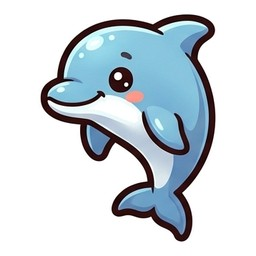
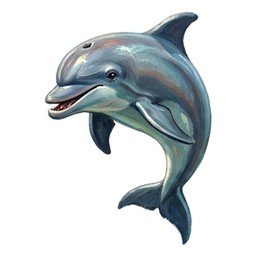
Oil-painting tokens: the same eight animals, painted

diff --git a/BOARD-ART.md b/BOARD-ART.md
@@ -28,13 +28,15 @@ and the centre is cropped square from the middle. **It overwrites** those 26 fil
 and the Fortune card are separate files that it doesn't touch. Higher-resolution sources give
 sharper squares (each square should ideally be at least 300 px in the source).
 
-### Player tokens from a 2×2 character sheet
+### Player tokens
 
 Players choose their token (an animal) before the game starts. The eight icons are
 `tokens/icon-1-shark.jpg` … `icon-8-meerkat.jpg` (names and order in `TOKEN_ICONS`,
 game/board.ts), each a 256×256 square on white, shown cropped to a circle with the player's
 colour ring. To replace them, cut a new sheet into the same eight files (square, the figure
-centred with a little margin). (`npm run art:tokens` is the older 4-token slicer.)
+centred with a little margin). The current set is cut from an oil-painting sheet of the eight
+animals on white (two rows of four, in `TOKEN_ICONS` order). (`npm run art:tokens` is the older
+4-token slicer.)
 
 ### Templates
 
